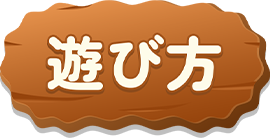
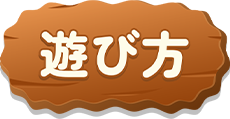
[fix] images size optimize not antialies

diff --git a/dist/assets/index-CgSqTjWj.js b/dist/assets/index-CgSqTjWj.js
@@ -6345,4 +6345,4 @@ return new `+this.key+`();
  * @author       Richard Davey <rich@phaser.io>
  * @copyright    2013-2025 Phaser Studio Inc.
  * @license      {@link https://opensource.org/licenses/MIT|MIT License}
- */p.exports={Format:t(27902),Pad:t(41836),RemoveAt:t(33628),Reverse:t(27671),UppercaseFirst:t(35355),UUID:t(45650)}}},rt={};function it(p){var S=rt[p];if(S!==void 0)return S.exports;var t=rt[p]={exports:{}};return et[p](t,t.exports,it),t.exports}it.g=function(){if(typeof globalThis=="object")return globalThis;try{return this||new Function("return this")()}catch{if(typeof window=="object")return window}}();var st=it(85454);return st})())}(At)),At.exports}var wt=Dt();const xt=Lt(wt);class Bt extends xt.Scene{constructor(){super({key:"MainScene"});yt(this,"timeBar");yt(this,"maxTime");yt(this,"currentTime");yt(this,"score");yt(this,"fillingsList",[{num:1,ja:"たまねぎ",en:"onion",price:10},{num:2,ja:"チーズ",en:"cheese",price:20},{num:3,ja:"レタス",en:"lettuce",price:10},{num:4,ja:"ピクルス",en:"pickles",price:5},{num:5,ja:"トマト",en:"tomato",price:30},{num:6,ja:"パティ",en:"patty",price:100},{num:7,ja:"バンズ(上)",en:"topBuns",price:30},{num:8,ja:"バンズ(下)",en:"bottomBuns",price:30}]);yt(this,"answerList",[]);yt(this,"resultArray",[])}preload(){}create(){this.cameras.main.setRoundPixels(!0);let et=this.cameras.main.width,rt=this.cameras.main.height,it=!1,st=!1;this.score=0,this.cameras.main.fadeIn(500),this.add.rectangle(et/2,rt/2,et,rt,9801879).setOrigin(.5,.5),this.add.image(et/2,0,"bg").setOrigin(.5,0);const p=this.add.image(et-10,10,"pauseBtn").setOrigin(1,0);p.setInteractive(),p.on("pointerdown",()=>{this.scene.pause(),this.scene.launch("PauseScene")}),this.add.image(12,16,"timeBg").setOrigin(0,0),this.timeBar=this.add.rectangle(14,18,236,26,3200045).setOrigin(0,0),this.add.image(12,16,"timeBorder").setOrigin(0,0),this.add.image(28,31,"clock"),this.maxTime=30,this.currentTime=this.maxTime;const S=this.add.text(12,50,`SCORE: ${this.score}`,{fontFamily:"sans serif",fontSize:18,fontStyle:"bold",color:"white"}).setOrigin(0,0),t=(et-24)/3,d=t*.737705,c=(et-20)/2,h=c*.2702703,r=d*2+h+8;let n=this.add.container(0,rt-r-8);const e=this.add.image(et/2-t/2-4,0,"btn1").setDisplaySize(t,d).setOrigin(1,0),s=this.add.image(et/2,0,"btn2").setDisplaySize(t,d).setOrigin(.5,0),a=this.add.image(et/2+t/2+4,0,"btn3").setDisplaySize(t,d).setOrigin(0,0),i=this.add.image(et/2-t/2-4,d+4,"btn4").setDisplaySize(t,d).setOrigin(1,0),o=this.add.image(et/2,d+4,"btn5").setDisplaySize(t,d).setOrigin(.5,0),l=this.add.image(et/2+t/2+4,d+4,"btn6").setDisplaySize(t,d).setOrigin(0,0),f=this.add.image(et/2-2,d*2+8,"btn7").setDisplaySize(c,h).setOrigin(1,0),u=this.add.image(et/2+2,d*2+8,"btn8").setDisplaySize(c,h).setOrigin(0,0);n.add([e,a,i,o,s,l,f,u]);const v=[{btn:e,arg:"onion",collideSize:20},{btn:s,arg:"cheese",collideSize:20},{btn:a,arg:"lettuce",collideSize:20},{btn:i,arg:"pickles",collideSize:10},{btn:o,arg:"tomato",collideSize:28},{btn:l,arg:"patty",collideSize:40},{btn:f,arg:"topBuns",collideSize:30},{btn:u,arg:"bottomBuns",collideSize:35}];console.log(xt.VERSION);const m=this.add.rectangle(0,0,et,rt,0,0).setOrigin(0,0).setInteractive(!1).setDepth(50),g=this.add.image(et/2,-100,"start").setOrigin(.5,.5).setDepth(50);this.tweens.add({targets:g,y:rt/2,duration:800,ease:"Cubic.easeIn",onComplete:()=>{this.time.delayedCall(1800,()=>{this.tweens.add({targets:g,y:-500,duration:500,ease:"Cubic.easeIn",onComplete:()=>{g.destroy(),m.destroy(),it===!1&&(w(),it=!0),this.time.addEvent({delay:1e3,loop:!0,callback:()=>{this.currentTime--,this.updateTimeBar()},callbackScope:this})}})})}});const x=this.physics.add.staticBody(0,rt-r-50,et,5);console.log(n);let y=this.physics.add.group(),T=this.add.container(et/2,rt/2).setDepth(10);this.physics.add.collider(y,y,(B,O)=>{const L=B,I=O;L.body&&I.body&&(L.body.setImmovable(!0),L.body.setVelocity(0,0),L.body.setAcceleration(0),L.body.setAllowGravity(!1))}),this.physics.add.collider(y,x);let C=this.add.image(et/2,rt-r-30,"success").setDisplaySize(114,62.4).setOrigin(.5,1).setDepth(10).setAlpha(0),E=[],M=0,P;v.forEach(B=>{B.btn.setInteractive(),B.btn.on("pointerdown",()=>{var I;M++,console.log(`${B.arg} ボタンが押されました`);const O=this.addBurger(B.arg,B.collideSize,M);y.add(O),T.add(O),st===!1&&M>4&&(P=this.tweens.add({targets:C,alpha:{from:1,to:0},x:C.x-50,duration:1500,delay:300,ease:"Cubic.easeIn",repeat:-1}),st=!0);const L=(I=this.fillingsList.find(z=>z.en===B.arg))==null?void 0:I.num;L!==void 0&&E.unshift(L)})});const A=[{name:"ハンバーガー",question:[1,4,6],price:400},{name:"チーズバーガー",question:[2,4,6],price:500},{name:"フレッシュバーガー",question:[3,4,5,6],price:600},{name:"ダブルバーガー",question:[1,3,4,6,6],price:700},{name:"デラックスバーガー",question:[2,2,3,5,6,6],price:1e3}];let R,F=this.add.container(12,100);const w=()=>{const B=Math.floor(Math.random()*A.length);R={name:A[B].name,question:[7],price:A[B].price},console.log(R);const O=A[B].question.slice();console.log(O);for(let z=O.length-1;z>0;z--){const X=Math.floor(Math.random()*(z+1));[O[z],O[X]]=[O[X],O[z]]}for(;O.length>0;){const z=O.pop();z!==void 0&&R.question.push(z)}R.question.push(8);const L=this.add.graphics();L.fillStyle(16777100,1),L.fillRoundedRect(0,0,220,(R.question.length+2)*28,5),F.add(L);const I=this.add.text(110,8,`《${R.name}》`,{fontSize:18,fontStyle:"bold",color:"black",padding:{top:5,bottom:5}}).setOrigin(.5,0);F.add(I);for(let z=0;z<R.question.length;z++){const X=this.textures.get(this.fillingsList[R.question[z]-1].en).getSourceImage().width,V=this.textures.get(this.fillingsList[R.question[z]-1].en).getSourceImage().height,Y=28,W=V/X,H=Y*W,b=this.add.image(16,z*28+40,this.fillingsList[R.question[z]-1].en).setOrigin(0,0).setDisplaySize(Y,H),K=this.add.text(48,z*28+36,this.fillingsList[R.question[z]-1].ja,{fontSize:16,fontStyle:"bold",color:"black",padding:{top:5,bottom:5}}).setOrigin(0,0).setColor("black"),J=this.add.rectangle(16,z*28+58,188,2,15723640).setOrigin(0,0);F.add([b,K,J])}console.log(F)};function G(B,O){return JSON.stringify(B)===JSON.stringify(O)?"perfect":B.every(L=>O.filter(I=>I===L).length>=B.filter(I=>I===L).length)?"good":"bad"}T.setSize(et,rt/3),T.setInteractive();let U,N=!1,D;T.on("pointerdown",B=>{M>4&&(U=B.x,N=!0)}),this.input.on("pointermove",B=>{N&&M>4&&(T.x+=B.x-U,U=B.x)}),this.input.on("pointerup",()=>{N&&M>4&&(N=!1,T.x<et/2-50?this.tweens.add({targets:T,x:-200,duration:300,ease:"Power2",onComplete:()=>{const B=R.question,O=E;console.log(`問題:${B}`),console.log(`回答:${O}`),console.log(G(B,O)),D=this.add.image(et/2,rt/2,G(B,O)).setOrigin(.5,.5),this.score+=this.scoreCalc(R.price,G(B,O),E),S.setText(`SCORE: ${this.score}`);const L=this.scoreCalc(R.price,G(B,O),E)>0?"white":"red",I=this.scoreCalc(R.price,G(B,O),E)>0?"+":"",z=this.add.text(S.displayWidth+30,50,`${I}${this.scoreCalc(R.price,G(B,O),E)}`,{fontFamily:"sans serif",fontSize:18,fontStyle:"bold",color:L}).setOrigin(0,0);if(this.tweens.add({targets:z,alpha:0,duration:800,onComplete:()=>{z.destroy()}}),P.stop(),C.x=et/2,C.setAlpha(0),y.clear(!0,!0),T.removeAll(!0),R={name:"",question:[],price:0},n.each(X=>{X instanceof xt.GameObjects.Image&&X.disableInteractive()}),G(B,O)==="perfect"){this.currentTime+=2;const X=this.add.text(236,31,"+2s",{fontFamily:"sans serif",fontStyle:"bold",color:"white"}).setOrigin(1,.5);this.tweens.add({targets:X,alpha:0,duration:800,onComplete:()=>{X.destroy()}})}else if(G(B,O)==="bad"){this.currentTime-=1;const X=this.add.text(236,31,"-1s",{fontFamily:"sans serif",fontStyle:"bold",color:"red"}).setOrigin(1,.5);this.tweens.add({targets:X,alpha:0,duration:800,onComplete:()=>{X.destroy()}})}setTimeout(()=>{F.removeAll(!0),w(),T.x=et/2,D.destroy(),D=null,M=0,st=!1,E=[],n.each(X=>{X instanceof xt.GameObjects.Image&&X.setInteractive()})},600)}}):this.tweens.add({targets:T,x:et/2,duration:500,ease:"Power2"}))})}update(){}updateTimeBar(){let et=this.currentTime/this.maxTime;if(this.timeBar.width=236*et,et<=.5&&et>.2?this.timeBar.fillColor=15649792:et<=.2&&(this.timeBar.fillColor=15597568),this.currentTime<=0){this.time.removeAllEvents(),this.resultCalc(this.answerList),this.add.rectangle(0,0,this.cameras.main.width,this.cameras.main.height,0,0).setOrigin(0,0).setInteractive(!1).setDepth(50);const rt=this.add.image(this.cameras.main.width/2,-100,"finish").setOrigin(.5,.5).setDepth(50);this.tweens.add({targets:rt,y:this.cameras.main.height/2,duration:600,ease:"Cubic.easeIn",onComplete:()=>{this.time.delayedCall(3e3,()=>{this.scene.pause(),this.scene.launch("ResultScene",{score:this.score})})}})}}addBurger(et,rt,it){const st=this.physics.add.image(0,0-it*30,et).setScale(.65,.65).setMass(.1);return st.body.setSize(st.width,rt).setOffset(0,st.height-rt),et=="cheese"&&st.body.setOffset(0,st.height-45),et=="lettuce"&&st.body.setOffset(0,st.height-35),st}scoreCalc(et,rt,it){let st=0,p=0;return rt==="perfect"?st=et*1.2:rt==="bad"?st=et*.5:st=et,it.forEach(S=>{var d;const t=(d=this.fillingsList.find(c=>c.num===S))==null?void 0:d.price;t&&(p+=t)}),st-p}resultCalc(et){const rt={};et.forEach(it=>{it.forEach(st=>{rt[st]=rt[st]?rt[st]+1:1})});for(let it=1;it<=8;it++)if(rt[it]){const st=this.fillingsList.find(p=>p.num===it);st&&this.resultArray.push({num:it,ja:st.ja,en:st.en,count:rt[it],price:rt[it]*st.price})}}}class It extends xt.Scene{constructor(){super({key:"TitleScene"})}preload(){const vt=this.add.graphics().setDepth(50);vt.fillStyle(16777215,1),vt.fillRect(0,0,this.cameras.main.width,this.cameras.main.height);const et=this.add.graphics().setDepth(50),rt=this.add.text(this.cameras.main.width/2,this.cameras.main.height/2-30,"ロード中...",{fontFamily:"sans serif",fontStyle:"bold",fontSize:20,color:"#333333",padding:{x:0,y:3}}).setOrigin(.5,.5).setDepth(50),it=this.add.text(this.cameras.main.width/2,this.cameras.main.height/2+30,"0%",{fontFamily:"sans serif",fontStyle:"bold",fontSize:20,color:"#333333"}).setOrigin(.5,.5).setDepth(50);this.load.on("progress",st=>{et.clear(),et.fillStyle(3355443,1),et.fillRoundedRect(100,this.cameras.main.height/2,(this.cameras.main.width-200)*st,10,3),it.setText(Math.floor(st*100)+"%")}),this.load.image("bg","./images/background.png"),this.load.image("titleBg","./images/title_bg.png"),this.load.image("playBtn","./images/play.png"),this.load.image("helpBtn","./images/help.png"),this.load.image("helpManual","./images/help_manual.png"),this.load.image("logo","./images/title_logo.png"),this.load.image("closeBtn","./images/close_btn.png"),this.load.image("timeBg","./images/time_bg.png"),this.load.image("timeBorder","./images/time_border.png"),this.load.image("clock","./images/clock.png"),this.load.image("pauseBtn","./images/pause_btn.png"),this.load.image("success","./images/success.png"),this.load.image("resumeBtn","./images/resume.png"),this.load.image("restartBtn","./images/restart.png"),this.load.image("backToTitleBtn","./images/backtotitle.png"),this.load.image("oneMoreBtn","./images/onemore.png"),this.load.image("btn1","./images/main_btn1.png"),this.load.image("btn2","./images/main_btn2.png"),this.load.image("btn3","./images/main_btn3.png"),this.load.image("btn4","./images/main_btn4.png"),this.load.image("btn5","./images/main_btn5.png"),this.load.image("btn6","./images/main_btn6.png"),this.load.image("btn7","./images/main_btn7.png"),this.load.image("btn8","./images/main_btn8.png"),this.load.image("topBuns","./images/top_buns.png"),this.load.image("bottomBuns","./images/bottom_buns.png"),this.load.image("onion","./images/onion.png"),this.load.image("lettuce","./images/lettuce.png"),this.load.image("pickles","./images/pickles.png"),this.load.image("tomato","./images/tomato.png"),this.load.image("cheese","./images/cheese.png"),this.load.image("patty","./images/patty.png"),this.load.image("start","./images/start.png"),this.load.image("finish","./images/finish.png"),this.load.image("perfect","./images/perfect.png"),this.load.image("good","./images/good.png"),this.load.image("bad","./images/bad.png"),this.load.on("complete",()=>{this.cameras.main.setRoundPixels(!0),this.add.image(this.cameras.main.width/2,0,"titleBg").setOrigin(.5,0);const st=this.add.image(this.cameras.main.width/2,this.cameras.main.height/2,"logo").setOrigin(.5,1),p=this.cameras.main.width-20,S=p*.865;st.setDisplaySize(p,S);const t=localStorage.getItem("highScore");let d="";console.log(t),t&&(d=`ハイスコア:${parseInt(t).toLocaleString()}円`),this.add.text(this.cameras.main.width/2,this.cameras.main.height-10,d,{fontFamily:"sans serif",fontSize:"24px",fontStyle:"bold",color:"#333333"}).setOrigin(.5,1);const c=this.add.image(this.cameras.main.width/2,this.cameras.main.height/2+40,"playBtn").setScale(.88).setOrigin(.5,0),h=this.add.image(this.cameras.main.width/2,this.cameras.main.height/2+200,"helpBtn").setScale(.88).setOrigin(.5,0);c.setInteractive(),h.setInteractive(),this.tweens.add({targets:[vt,et,rt,it],alpha:0,duration:500,onComplete:()=>{vt.destroy(),et.destroy(),rt.destroy(),it.destroy()}}),h.on("pointerdown",()=>{c.removeInteractive(),h.removeInteractive();const r=this.add.rectangle(0,0,this.cameras.main.width,this.cameras.main.height,0).setOrigin(0,0).setDepth(10).setAlpha(0),n=this.add.image(this.cameras.main.width/2,this.cameras.main.height/2,"helpManual").setOrigin(.5,.5).setDepth(10).setAlpha(0),e=this.cameras.main.width-40,s=e*1.202;n.setDisplaySize(e,s);const a=this.add.image(this.cameras.main.width-10,10,"closeBtn").setOrigin(1,0).setDepth(10).setAlpha(0);this.tweens.add({targets:[r],alpha:.8,duration:500}),this.tweens.add({targets:[n,a],alpha:1,duration:500,onComplete:()=>{a.setInteractive(),a.on("pointerdown",()=>{this.tweens.add({targets:[r,n,a],alpha:0,duration:300,onComplete:()=>{r.destroy(),n.destroy(),a.destroy(),c.setInteractive(),h.setInteractive()}})})}})}),c.on("pointerdown",()=>{this.cameras.main.fadeOut(1e3),this.cameras.main.once("camerafadeoutcomplete",()=>{this.scene.start("MainScene")})})})}create(){}update(){}}class Gt extends xt.Scene{constructor(){super({key:"PauseScene"})}preload(){}create(){this.cameras.main.setRoundPixels(!0);const vt=this.add.rectangle(0,0,this.cameras.main.width,this.cameras.main.height,0).setOrigin(0,0).setDepth(10).setAlpha(0),et=this.add.image(this.cameras.main.width/2,this.cameras.main.height/2-160,"resumeBtn").setOrigin(.5,.5).setScale(.88).setDepth(10).setAlpha(0),rt=this.add.image(this.cameras.main.width/2,this.cameras.main.height/2,"restartBtn").setOrigin(.5,.5).setScale(.88).setDepth(10).setAlpha(0),it=this.add.image(this.cameras.main.width/2,this.cameras.main.height/2+160,"backToTitleBtn").setOrigin(.5,.5).setScale(.88).setDepth(10).setAlpha(0);this.tweens.add({targets:[vt],alpha:.8,duration:500}),this.tweens.add({targets:[et,rt,it],alpha:1,duration:500,onComplete:()=>{et.setInteractive(),rt.setInteractive(),it.setInteractive(),et.on("pointerdown",()=>{this.scene.stop(),this.scene.resume("MainScene")}),rt.on("pointerdown",()=>{this.scene.stop(),this.scene.start("MainScene")}),it.on("pointerdown",()=>{this.scene.stop(),this.scene.stop("MainScene"),this.scene.start("TitleScene")})}})}}class Nt extends xt.Scene{constructor(){super({key:"ResultScene"})}preload(){}create(vt){this.cameras.main.setRoundPixels(!0);const et=this.add.rectangle(0,0,this.cameras.main.width,this.cameras.main.height,0).setOrigin(0,0).setDepth(10).setAlpha(0),rt=this.add.image(this.cameras.main.width/2-10,this.cameras.main.height-100,"oneMoreBtn").setOrigin(1,1).setScale(.52).setDepth(10).setAlpha(0),it=this.add.image(this.cameras.main.width/2+10,this.cameras.main.height-100,"backToTitleBtn").setOrigin(0,1).setScale(.52).setDepth(10).setAlpha(0),st=vt.score,p=localStorage.getItem("highScore");let S="";console.log(p),p?p<st?(localStorage.setItem("highScore",st),S="ハイスコア更新！"):S=`ハイスコア:${parseInt(p).toLocaleString()}円`:(localStorage.setItem("highScore",st),S="ハイスコア更新！"),this.add.text(this.cameras.main.width/2,this.cameras.main.height/2-50,"今回のスコア",{fontFamily:"sans serif",fontSize:24,fontStyle:"bold",color:"white",padding:{x:0,y:5}}).setOrigin(.5,.5).setDepth(10),this.add.text(this.cameras.main.width/2,this.cameras.main.height/2,`${parseInt(st).toLocaleString()}円`,{fontFamily:"sans serif",fontSize:40,fontStyle:"bold",color:"white",padding:{x:0,y:5}}).setOrigin(.5,.5).setDepth(10),this.add.text(this.cameras.main.width/2,this.cameras.main.height/2+40,S,{fontFamily:"sans serif",fontSize:20,fontStyle:"bold",color:"white",padding:{x:0,y:5}}).setOrigin(.5,.5).setDepth(10),this.tweens.add({targets:[et],alpha:.8,duration:500}),this.tweens.add({targets:[rt,it],alpha:1,duration:500,onComplete:()=>{rt.setInteractive(),it.setInteractive(),rt.on("pointerdown",()=>{this.scene.stop(),this.scene.start("MainScene")}),it.on("pointerdown",()=>{this.scene.stop(),this.scene.stop("MainScene"),this.scene.start("TitleScene")})}})}}const Ut={type:xt.AUTO,width:Math.min(window.innerWidth,480),height:Math.min(window.innerHeight,844),scale:{mode:xt.Scale.FIT,autoCenter:xt.Scale.CENTER_BOTH},parent:"app",physics:{default:"arcade",arcade:{gravity:{x:0,y:300},debug:!1}},render:{pixelArt:!1,antialias:!1,antialiasGL:!1},input:{keyboard:!0},scene:[It,Bt,Gt,Nt]};new xt.Game(Ut);
+ */p.exports={Format:t(27902),Pad:t(41836),RemoveAt:t(33628),Reverse:t(27671),UppercaseFirst:t(35355),UUID:t(45650)}}},rt={};function it(p){var S=rt[p];if(S!==void 0)return S.exports;var t=rt[p]={exports:{}};return et[p](t,t.exports,it),t.exports}it.g=function(){if(typeof globalThis=="object")return globalThis;try{return this||new Function("return this")()}catch{if(typeof window=="object")return window}}();var st=it(85454);return st})())}(At)),At.exports}var wt=Dt();const xt=Lt(wt);class Bt extends xt.Scene{constructor(){super({key:"MainScene"});yt(this,"timeBar");yt(this,"maxTime");yt(this,"currentTime");yt(this,"score");yt(this,"fillingsList",[{num:1,ja:"たまねぎ",en:"onion",price:10},{num:2,ja:"チーズ",en:"cheese",price:20},{num:3,ja:"レタス",en:"lettuce",price:10},{num:4,ja:"ピクルス",en:"pickles",price:5},{num:5,ja:"トマト",en:"tomato",price:30},{num:6,ja:"パティ",en:"patty",price:100},{num:7,ja:"バンズ(上)",en:"topBuns",price:30},{num:8,ja:"バンズ(下)",en:"bottomBuns",price:30}]);yt(this,"answerList",[]);yt(this,"resultArray",[])}preload(){}create(){this.cameras.main.setRoundPixels(!0);let et=this.cameras.main.width,rt=this.cameras.main.height,it=!1,st=!1;this.score=0,this.cameras.main.fadeIn(500),this.add.rectangle(et/2,rt/2,et,rt,9801879).setOrigin(.5,.5),this.add.image(et/2,0,"bg").setOrigin(.5,0);const p=this.add.image(et-10,10,"pauseBtn").setOrigin(1,0);p.setInteractive(),p.on("pointerdown",()=>{this.scene.pause(),this.scene.launch("PauseScene")}),this.add.image(12,16,"timeBg").setOrigin(0,0),this.timeBar=this.add.rectangle(14,18,236,26,3200045).setOrigin(0,0),this.add.image(12,16,"timeBorder").setOrigin(0,0),this.add.image(28,31,"clock"),this.maxTime=30,this.currentTime=this.maxTime;const S=this.add.text(12,50,`SCORE: ${this.score}`,{fontFamily:"sans serif",fontSize:18,fontStyle:"bold",color:"white"}).setOrigin(0,0),t=(et-24)/3,d=t*.737705,c=(et-20)/2,h=c*.2702703,r=d*2+h+8;let n=this.add.container(0,rt-r-8);const e=this.add.image(et/2-t/2-4,0,"btn1").setDisplaySize(t,d).setOrigin(1,0),s=this.add.image(et/2,0,"btn2").setDisplaySize(t,d).setOrigin(.5,0),a=this.add.image(et/2+t/2+4,0,"btn3").setDisplaySize(t,d).setOrigin(0,0),i=this.add.image(et/2-t/2-4,d+4,"btn4").setDisplaySize(t,d).setOrigin(1,0),o=this.add.image(et/2,d+4,"btn5").setDisplaySize(t,d).setOrigin(.5,0),l=this.add.image(et/2+t/2+4,d+4,"btn6").setDisplaySize(t,d).setOrigin(0,0),f=this.add.image(et/2-2,d*2+8,"btn7").setDisplaySize(c,h).setOrigin(1,0),u=this.add.image(et/2+2,d*2+8,"btn8").setDisplaySize(c,h).setOrigin(0,0);n.add([e,a,i,o,s,l,f,u]);const v=[{btn:e,arg:"onion",collideSize:20},{btn:s,arg:"cheese",collideSize:20},{btn:a,arg:"lettuce",collideSize:20},{btn:i,arg:"pickles",collideSize:10},{btn:o,arg:"tomato",collideSize:28},{btn:l,arg:"patty",collideSize:40},{btn:f,arg:"topBuns",collideSize:30},{btn:u,arg:"bottomBuns",collideSize:35}];console.log(xt.VERSION);const m=this.add.rectangle(0,0,et,rt,0,0).setOrigin(0,0).setInteractive(!1).setDepth(50),g=this.add.image(et/2,-100,"start").setOrigin(.5,.5).setDepth(50);this.tweens.add({targets:g,y:rt/2,duration:800,ease:"Cubic.easeIn",onComplete:()=>{this.time.delayedCall(1800,()=>{this.tweens.add({targets:g,y:-500,duration:500,ease:"Cubic.easeIn",onComplete:()=>{g.destroy(),m.destroy(),it===!1&&(w(),it=!0),this.time.addEvent({delay:1e3,loop:!0,callback:()=>{this.currentTime--,this.updateTimeBar()},callbackScope:this})}})})}});const x=this.physics.add.staticBody(0,rt-r-50,et,5);console.log(n);let y=this.physics.add.group(),T=this.add.container(et/2,rt/2).setDepth(10);this.physics.add.collider(y,y,(B,O)=>{const L=B,I=O;L.body&&I.body&&(L.body.setImmovable(!0),L.body.setVelocity(0,0),L.body.setAcceleration(0),L.body.setAllowGravity(!1))}),this.physics.add.collider(y,x);let C=this.add.image(et/2,rt-r-30,"success").setDisplaySize(114,62.4).setOrigin(.5,1).setDepth(10).setAlpha(0),E=[],M=0,P;v.forEach(B=>{B.btn.setInteractive(),B.btn.on("pointerdown",()=>{var I;M++,console.log(`${B.arg} ボタンが押されました`);const O=this.addBurger(B.arg,B.collideSize,M);y.add(O),T.add(O),st===!1&&M>4&&(P=this.tweens.add({targets:C,alpha:{from:1,to:0},x:C.x-50,duration:1500,delay:300,ease:"Cubic.easeIn",repeat:-1}),st=!0);const L=(I=this.fillingsList.find(z=>z.en===B.arg))==null?void 0:I.num;L!==void 0&&E.unshift(L)})});const A=[{name:"ハンバーガー",question:[1,4,6],price:400},{name:"チーズバーガー",question:[2,4,6],price:500},{name:"フレッシュバーガー",question:[3,4,5,6],price:600},{name:"ダブルバーガー",question:[1,3,4,6,6],price:700},{name:"デラックスバーガー",question:[2,2,3,5,6,6],price:1e3}];let R,F=this.add.container(12,100);const w=()=>{const B=Math.floor(Math.random()*A.length);R={name:A[B].name,question:[7],price:A[B].price},console.log(R);const O=A[B].question.slice();console.log(O);for(let z=O.length-1;z>0;z--){const X=Math.floor(Math.random()*(z+1));[O[z],O[X]]=[O[X],O[z]]}for(;O.length>0;){const z=O.pop();z!==void 0&&R.question.push(z)}R.question.push(8);const L=this.add.graphics();L.fillStyle(16777100,1),L.fillRoundedRect(0,0,220,(R.question.length+2)*28,5),F.add(L);const I=this.add.text(110,8,`《${R.name}》`,{fontSize:18,fontStyle:"bold",color:"black",padding:{top:5,bottom:5}}).setOrigin(.5,0);F.add(I);for(let z=0;z<R.question.length;z++){const X=this.textures.get(this.fillingsList[R.question[z]-1].en).getSourceImage().width,V=this.textures.get(this.fillingsList[R.question[z]-1].en).getSourceImage().height,Y=28,W=V/X,H=Y*W,b=this.add.image(16,z*28+40,this.fillingsList[R.question[z]-1].en).setOrigin(0,0).setDisplaySize(Y,H),K=this.add.text(48,z*28+36,this.fillingsList[R.question[z]-1].ja,{fontSize:16,fontStyle:"bold",color:"black",padding:{top:5,bottom:5}}).setOrigin(0,0).setColor("black"),J=this.add.rectangle(16,z*28+58,188,2,15723640).setOrigin(0,0);F.add([b,K,J])}console.log(F)};function G(B,O){return JSON.stringify(B)===JSON.stringify(O)?"perfect":B.every(L=>O.filter(I=>I===L).length>=B.filter(I=>I===L).length)?"good":"bad"}T.setSize(et,rt/3),T.setInteractive();let U,N=!1,D;T.on("pointerdown",B=>{M>4&&(U=B.x,N=!0)}),this.input.on("pointermove",B=>{N&&M>4&&(T.x+=B.x-U,U=B.x)}),this.input.on("pointerup",()=>{N&&M>4&&(N=!1,T.x<et/2-50?this.tweens.add({targets:T,x:-200,duration:300,ease:"Power2",onComplete:()=>{const B=R.question,O=E;console.log(`問題:${B}`),console.log(`回答:${O}`),console.log(G(B,O)),D=this.add.image(et/2,rt/2,G(B,O)).setOrigin(.5,.5),this.score+=this.scoreCalc(R.price,G(B,O),E),S.setText(`SCORE: ${this.score}`);const L=this.scoreCalc(R.price,G(B,O),E)>0?"white":"red",I=this.scoreCalc(R.price,G(B,O),E)>0?"+":"",z=this.add.text(S.displayWidth+30,50,`${I}${this.scoreCalc(R.price,G(B,O),E)}`,{fontFamily:"sans serif",fontSize:18,fontStyle:"bold",color:L}).setOrigin(0,0);if(this.tweens.add({targets:z,alpha:0,duration:800,onComplete:()=>{z.destroy()}}),P.stop(),C.x=et/2,C.setAlpha(0),y.clear(!0,!0),T.removeAll(!0),R={name:"",question:[],price:0},n.each(X=>{X instanceof xt.GameObjects.Image&&X.disableInteractive()}),G(B,O)==="perfect"){this.currentTime+=2;const X=this.add.text(236,31,"+2s",{fontFamily:"sans serif",fontStyle:"bold",color:"white"}).setOrigin(1,.5);this.tweens.add({targets:X,alpha:0,duration:800,onComplete:()=>{X.destroy()}})}else if(G(B,O)==="bad"){this.currentTime-=1;const X=this.add.text(236,31,"-1s",{fontFamily:"sans serif",fontStyle:"bold",color:"red"}).setOrigin(1,.5);this.tweens.add({targets:X,alpha:0,duration:800,onComplete:()=>{X.destroy()}})}setTimeout(()=>{F.removeAll(!0),w(),T.x=et/2,D.destroy(),D=null,M=0,st=!1,E=[],n.each(X=>{X instanceof xt.GameObjects.Image&&X.setInteractive()})},600)}}):this.tweens.add({targets:T,x:et/2,duration:500,ease:"Power2"}))})}update(){}updateTimeBar(){let et=this.currentTime/this.maxTime;if(this.timeBar.width=236*et,et<=.5&&et>.2?this.timeBar.fillColor=15649792:et<=.2&&(this.timeBar.fillColor=15597568),this.currentTime<=0){this.time.removeAllEvents(),this.resultCalc(this.answerList),this.add.rectangle(0,0,this.cameras.main.width,this.cameras.main.height,0,0).setOrigin(0,0).setInteractive(!1).setDepth(50);const rt=this.add.image(this.cameras.main.width/2,-100,"finish").setOrigin(.5,.5).setDepth(50);this.tweens.add({targets:rt,y:this.cameras.main.height/2,duration:600,ease:"Cubic.easeIn",onComplete:()=>{this.time.delayedCall(3e3,()=>{this.scene.pause(),this.scene.launch("ResultScene",{score:this.score})})}})}}addBurger(et,rt,it){const st=this.physics.add.image(0,0-it*30,et).setScale(.65,.65).setMass(.1);return st.body.setSize(st.width,rt).setOffset(0,st.height-rt),et=="cheese"&&st.body.setOffset(0,st.height-45),et=="lettuce"&&st.body.setOffset(0,st.height-35),st}scoreCalc(et,rt,it){let st=0,p=0;return rt==="perfect"?st=et*1.2:rt==="bad"?st=et*.5:st=et,it.forEach(S=>{var d;const t=(d=this.fillingsList.find(c=>c.num===S))==null?void 0:d.price;t&&(p+=t)}),st-p}resultCalc(et){const rt={};et.forEach(it=>{it.forEach(st=>{rt[st]=rt[st]?rt[st]+1:1})});for(let it=1;it<=8;it++)if(rt[it]){const st=this.fillingsList.find(p=>p.num===it);st&&this.resultArray.push({num:it,ja:st.ja,en:st.en,count:rt[it],price:rt[it]*st.price})}}}class It extends xt.Scene{constructor(){super({key:"TitleScene"})}preload(){const vt=this.add.graphics().setDepth(50);vt.fillStyle(16777215,1),vt.fillRect(0,0,this.cameras.main.width,this.cameras.main.height);const et=this.add.graphics().setDepth(50),rt=this.add.text(this.cameras.main.width/2,this.cameras.main.height/2-30,"ロード中...",{fontFamily:"sans serif",fontStyle:"bold",fontSize:20,color:"#333333",padding:{x:0,y:3}}).setOrigin(.5,.5).setDepth(50),it=this.add.text(this.cameras.main.width/2,this.cameras.main.height/2+30,"0%",{fontFamily:"sans serif",fontStyle:"bold",fontSize:20,color:"#333333"}).setOrigin(.5,.5).setDepth(50);this.load.on("progress",st=>{et.clear(),et.fillStyle(3355443,1),et.fillRoundedRect(100,this.cameras.main.height/2,(this.cameras.main.width-200)*st,10,3),it.setText(Math.floor(st*100)+"%")}),this.load.image("bg","./images/background.png"),this.load.image("titleBg","./images/title_bg.png"),this.load.image("playBtn","./images/play.png"),this.load.image("helpBtn","./images/help.png"),this.load.image("helpManual","./images/help_manual.png"),this.load.image("logo","./images/title_logo.png"),this.load.image("closeBtn","./images/close_btn.png"),this.load.image("timeBg","./images/time_bg.png"),this.load.image("timeBorder","./images/time_border.png"),this.load.image("clock","./images/clock.png"),this.load.image("pauseBtn","./images/pause_btn.png"),this.load.image("success","./images/success.png"),this.load.image("resumeBtn","./images/resume.png"),this.load.image("restartBtn","./images/restart.png"),this.load.image("backToTitleBtn","./images/backtotitle.png"),this.load.image("oneMoreBtn","./images/onemore.png"),this.load.image("btn1","./images/main_btn1.png"),this.load.image("btn2","./images/main_btn2.png"),this.load.image("btn3","./images/main_btn3.png"),this.load.image("btn4","./images/main_btn4.png"),this.load.image("btn5","./images/main_btn5.png"),this.load.image("btn6","./images/main_btn6.png"),this.load.image("btn7","./images/main_btn7.png"),this.load.image("btn8","./images/main_btn8.png"),this.load.image("topBuns","./images/top_buns.png"),this.load.image("bottomBuns","./images/bottom_buns.png"),this.load.image("onion","./images/onion.png"),this.load.image("lettuce","./images/lettuce.png"),this.load.image("pickles","./images/pickles.png"),this.load.image("tomato","./images/tomato.png"),this.load.image("cheese","./images/cheese.png"),this.load.image("patty","./images/patty.png"),this.load.image("start","./images/start.png"),this.load.image("finish","./images/finish.png"),this.load.image("perfect","./images/perfect.png"),this.load.image("good","./images/good.png"),this.load.image("bad","./images/bad.png"),this.load.on("complete",()=>{this.cameras.main.setRoundPixels(!0),this.add.image(this.cameras.main.width/2,0,"titleBg").setOrigin(.5,0);const st=this.add.image(this.cameras.main.width/2,this.cameras.main.height/2,"logo").setOrigin(.5,1),p=this.cameras.main.width-20,S=p*.865;st.setDisplaySize(p,S);const t=localStorage.getItem("highScore");let d="";console.log(t),t&&(d=`ハイスコア:${parseInt(t).toLocaleString()}円`),this.add.text(this.cameras.main.width/2,this.cameras.main.height-10,d,{fontFamily:"sans serif",fontSize:"24px",fontStyle:"bold",color:"#333333"}).setOrigin(.5,1);const c=this.add.image(this.cameras.main.width/2,this.cameras.main.height/2+20,"playBtn").setOrigin(.5,0),h=this.add.image(this.cameras.main.width/2,this.cameras.main.height/2+160,"helpBtn").setOrigin(.5,0);c.setInteractive(),h.setInteractive(),this.tweens.add({targets:[vt,et,rt,it],alpha:0,duration:500,onComplete:()=>{vt.destroy(),et.destroy(),rt.destroy(),it.destroy()}}),h.on("pointerdown",()=>{c.removeInteractive(),h.removeInteractive();const r=this.add.rectangle(0,0,this.cameras.main.width,this.cameras.main.height,0).setOrigin(0,0).setDepth(10).setAlpha(0),n=this.add.image(this.cameras.main.width/2,this.cameras.main.height/2,"helpManual").setOrigin(.5,.5).setDepth(10).setAlpha(0),e=this.cameras.main.width-40,s=e*1.202;n.setDisplaySize(e,s);const a=this.add.image(this.cameras.main.width-10,10,"closeBtn").setOrigin(1,0).setDepth(10).setAlpha(0);this.tweens.add({targets:[r],alpha:.8,duration:500}),this.tweens.add({targets:[n,a],alpha:1,duration:500,onComplete:()=>{a.setInteractive(),a.on("pointerdown",()=>{this.tweens.add({targets:[r,n,a],alpha:0,duration:300,onComplete:()=>{r.destroy(),n.destroy(),a.destroy(),c.setInteractive(),h.setInteractive()}})})}})}),c.on("pointerdown",()=>{this.cameras.main.fadeOut(1e3),this.cameras.main.once("camerafadeoutcomplete",()=>{this.scene.start("MainScene")})})})}create(){}update(){}}class Gt extends xt.Scene{constructor(){super({key:"PauseScene"})}preload(){}create(){this.cameras.main.setRoundPixels(!0);const vt=this.add.rectangle(0,0,this.cameras.main.width,this.cameras.main.height,0).setOrigin(0,0).setDepth(10).setAlpha(0),et=this.add.image(this.cameras.main.width/2,this.cameras.main.height/2-160,"resumeBtn").setOrigin(.5,.5).setDepth(10).setAlpha(0),rt=this.add.image(this.cameras.main.width/2,this.cameras.main.height/2,"restartBtn").setOrigin(.5,.5).setDepth(10).setAlpha(0),it=this.add.image(this.cameras.main.width/2,this.cameras.main.height/2+160,"backToTitleBtn").setOrigin(.5,.5).setDepth(10).setAlpha(0);this.tweens.add({targets:[vt],alpha:.8,duration:500}),this.tweens.add({targets:[et,rt,it],alpha:1,duration:500,onComplete:()=>{et.setInteractive(),rt.setInteractive(),it.setInteractive(),et.on("pointerdown",()=>{this.scene.stop(),this.scene.resume("MainScene")}),rt.on("pointerdown",()=>{this.scene.stop(),this.scene.start("MainScene")}),it.on("pointerdown",()=>{this.scene.stop(),this.scene.stop("MainScene"),this.scene.start("TitleScene")})}})}}class Nt extends xt.Scene{constructor(){super({key:"ResultScene"})}preload(){}create(vt){this.cameras.main.setRoundPixels(!0);const et=this.add.rectangle(0,0,this.cameras.main.width,this.cameras.main.height,0).setOrigin(0,0).setDepth(10).setAlpha(0),rt=this.add.image(this.cameras.main.width/2-10,this.cameras.main.height-100,"oneMoreBtn").setOrigin(1,1).setScale(.6).setDepth(10).setAlpha(0),it=this.add.image(this.cameras.main.width/2+10,this.cameras.main.height-100,"backToTitleBtn").setOrigin(0,1).setScale(.6).setDepth(10).setAlpha(0),st=vt.score,p=localStorage.getItem("highScore");let S="";console.log(p),p?p<st?(localStorage.setItem("highScore",st),S="ハイスコア更新！"):S=`ハイスコア:${parseInt(p).toLocaleString()}円`:(localStorage.setItem("highScore",st),S="ハイスコア更新！"),this.add.text(this.cameras.main.width/2,this.cameras.main.height/2-50,"今回のスコア",{fontFamily:"sans serif",fontSize:24,fontStyle:"bold",color:"white",padding:{x:0,y:5}}).setOrigin(.5,.5).setDepth(10),this.add.text(this.cameras.main.width/2,this.cameras.main.height/2,`${parseInt(st).toLocaleString()}円`,{fontFamily:"sans serif",fontSize:40,fontStyle:"bold",color:"white",padding:{x:0,y:5}}).setOrigin(.5,.5).setDepth(10),this.add.text(this.cameras.main.width/2,this.cameras.main.height/2+40,S,{fontFamily:"sans serif",fontSize:20,fontStyle:"bold",color:"white",padding:{x:0,y:5}}).setOrigin(.5,.5).setDepth(10),this.tweens.add({targets:[et],alpha:.8,duration:500}),this.tweens.add({targets:[rt,it],alpha:1,duration:500,onComplete:()=>{rt.setInteractive(),it.setInteractive(),rt.on("pointerdown",()=>{this.scene.stop(),this.scene.start("MainScene")}),it.on("pointerdown",()=>{this.scene.stop(),this.scene.stop("MainScene"),this.scene.start("TitleScene")})}})}}const Ut={type:xt.AUTO,width:Math.min(window.innerWidth,480),height:Math.min(window.innerHeight,844),scale:{mode:xt.Scale.FIT,autoCenter:xt.Scale.CENTER_BOTH},parent:"app",physics:{default:"arcade",arcade:{gravity:{x:0,y:300},debug:!1}},render:{pixelArt:!1,antialias:!1,antialiasGL:!1},input:{keyboard:!0},scene:[It,Bt,Gt,Nt]};new xt.Game(Ut);

diff --git a/src/scenes/PauseScene.ts b/src/scenes/PauseScene.ts
@@ -11,9 +11,9 @@ class PauseScene extends Phaser.Scene {
     this.cameras.main.setRoundPixels(true);
 
     const pauseBg = this.add.rectangle(0, 0, this.cameras.main.width, this.cameras.main.height, 0x000000).setOrigin(0, 0).setDepth(10).setAlpha(0);
-    const resumeBtn = this.add.image(this.cameras.main.width / 2, (this.cameras.main.height / 2) - 160, 'resumeBtn').setOrigin(0.5, 0.5).setScale(0.88).setDepth(10).setAlpha(0);
-    const restartBtn = this.add.image(this.cameras.main.width / 2, this.cameras.main.height / 2, 'restartBtn').setOrigin(0.5, 0.5).setScale(0.88).setDepth(10).setAlpha(0);
-    const backToTitleBtn = this.add.image(this.cameras.main.width / 2, (this.cameras.main.height / 2) + 160, 'backToTitleBtn').setOrigin(0.5, 0.5).setScale(0.88).setDepth(10).setAlpha(0);
+    const resumeBtn = this.add.image(this.cameras.main.width / 2, (this.cameras.main.height / 2) - 160, 'resumeBtn').setOrigin(0.5, 0.5).setDepth(10).setAlpha(0);
+    const restartBtn = this.add.image(this.cameras.main.width / 2, this.cameras.main.height / 2, 'restartBtn').setOrigin(0.5, 0.5).setDepth(10).setAlpha(0);
+    const backToTitleBtn = this.add.image(this.cameras.main.width / 2, (this.cameras.main.height / 2) + 160, 'backToTitleBtn').setOrigin(0.5, 0.5).setDepth(10).setAlpha(0);
 
     this.tweens.add({
       targets: [pauseBg],

diff --git a/src/scenes/ResultScene.ts b/src/scenes/ResultScene.ts
@@ -11,8 +11,8 @@ class ResultScene extends Phaser.Scene {
     this.cameras.main.setRoundPixels(true);
 
     const resultBg = this.add.rectangle(0, 0, this.cameras.main.width, this.cameras.main.height, 0x000000).setOrigin(0, 0).setDepth(10).setAlpha(0);
-    const oneMoreBtn = this.add.image((this.cameras.main.width / 2) - 10, this.cameras.main.height - 100, 'oneMoreBtn').setOrigin(1, 1).setScale(0.52).setDepth(10).setAlpha(0);
-    const backToTitleBtn = this.add.image((this.cameras.main.width / 2) + 10, this.cameras.main.height - 100, 'backToTitleBtn').setOrigin(0, 1).setScale(0.52).setDepth(10).setAlpha(0);
+    const oneMoreBtn = this.add.image((this.cameras.main.width / 2) - 10, this.cameras.main.height - 100, 'oneMoreBtn').setOrigin(1, 1).setScale(0.6).setDepth(10).setAlpha(0);
+    const backToTitleBtn = this.add.image((this.cameras.main.width / 2) + 10, this.cameras.main.height - 100, 'backToTitleBtn').setOrigin(0, 1).setScale(0.6).setDepth(10).setAlpha(0);
 
     //ハイスコア
     const resultScore = data.score;

diff --git a/src/scenes/TitleScene.ts b/src/scenes/TitleScene.ts
@@ -86,8 +86,8 @@ class TitleScene extends Phaser.Scene {
         highScoreTxt = `ハイスコア:${parseInt(highScore).toLocaleString()}円`;
       }
       this.add.text(this.cameras.main.width / 2, this.cameras.main.height - 10, highScoreTxt, { fontFamily: 'sans serif', fontSize: `24px`, fontStyle: "bold", color: '#333333' }).setOrigin(0.5, 1);
-      const playBtn = this.add.image(this.cameras.main.width / 2, (this.cameras.main.height / 2) + 40, 'playBtn').setScale(0.88).setOrigin(0.5, 0);
-      const helpBtn = this.add.image(this.cameras.main.width / 2, (this.cameras.main.height / 2) + 200, 'helpBtn').setScale(0.88).setOrigin(0.5, 0);
+      const playBtn = this.add.image(this.cameras.main.width / 2, (this.cameras.main.height / 2) + 20, 'playBtn').setOrigin(0.5, 0);
+      const helpBtn = this.add.image(this.cameras.main.width / 2, (this.cameras.main.height / 2) + 160, 'helpBtn').setOrigin(0.5, 0);
       playBtn.setInteractive();
       helpBtn.setInteractive();
 

diff --git a/dist/index.html b/dist/index.html
@@ -16,7 +16,7 @@
       justify-content: center;
     }
   </style>
-  <script type="module" crossorigin src="/fast-burger-kitchen/assets/index-BoJRbfJP.js"></script>
+  <script type="module" crossorigin src="/fast-burger-kitchen/assets/index-CgSqTjWj.js"></script>
 </head>
 
 <body>
